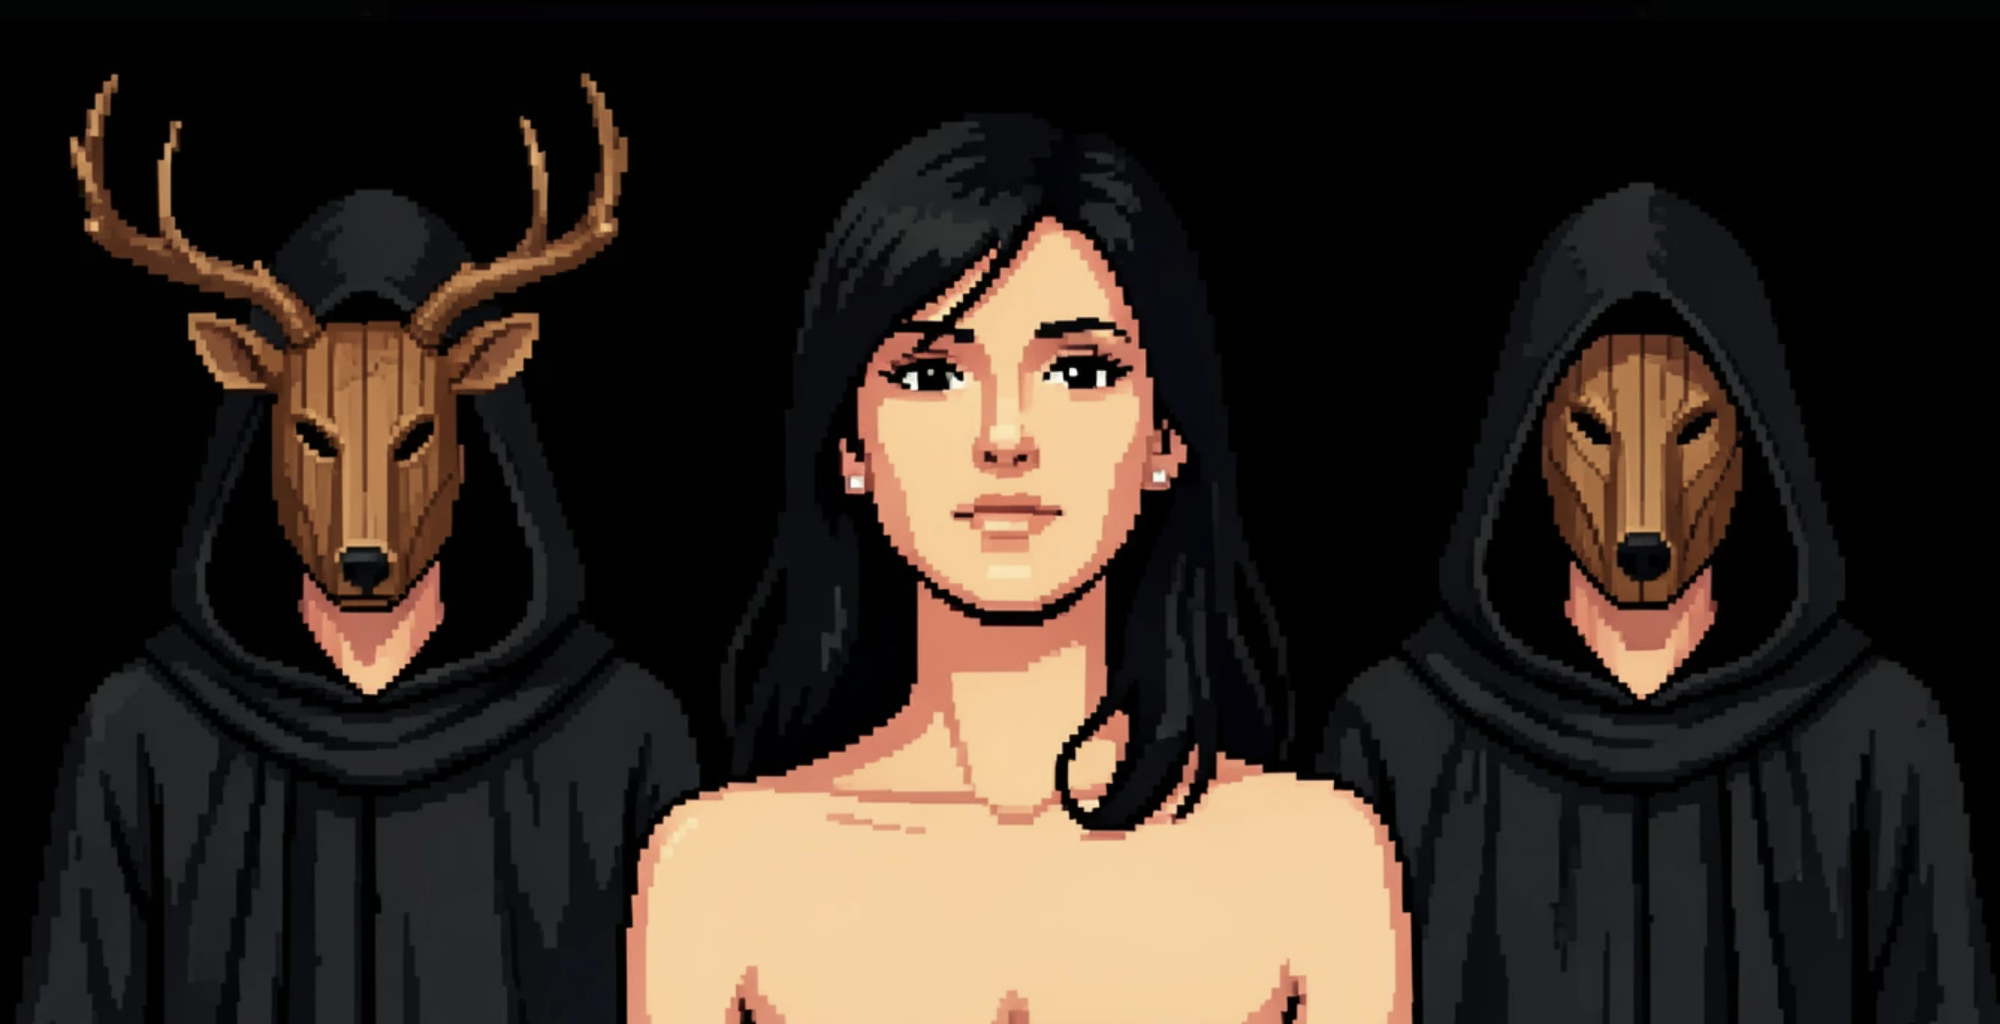
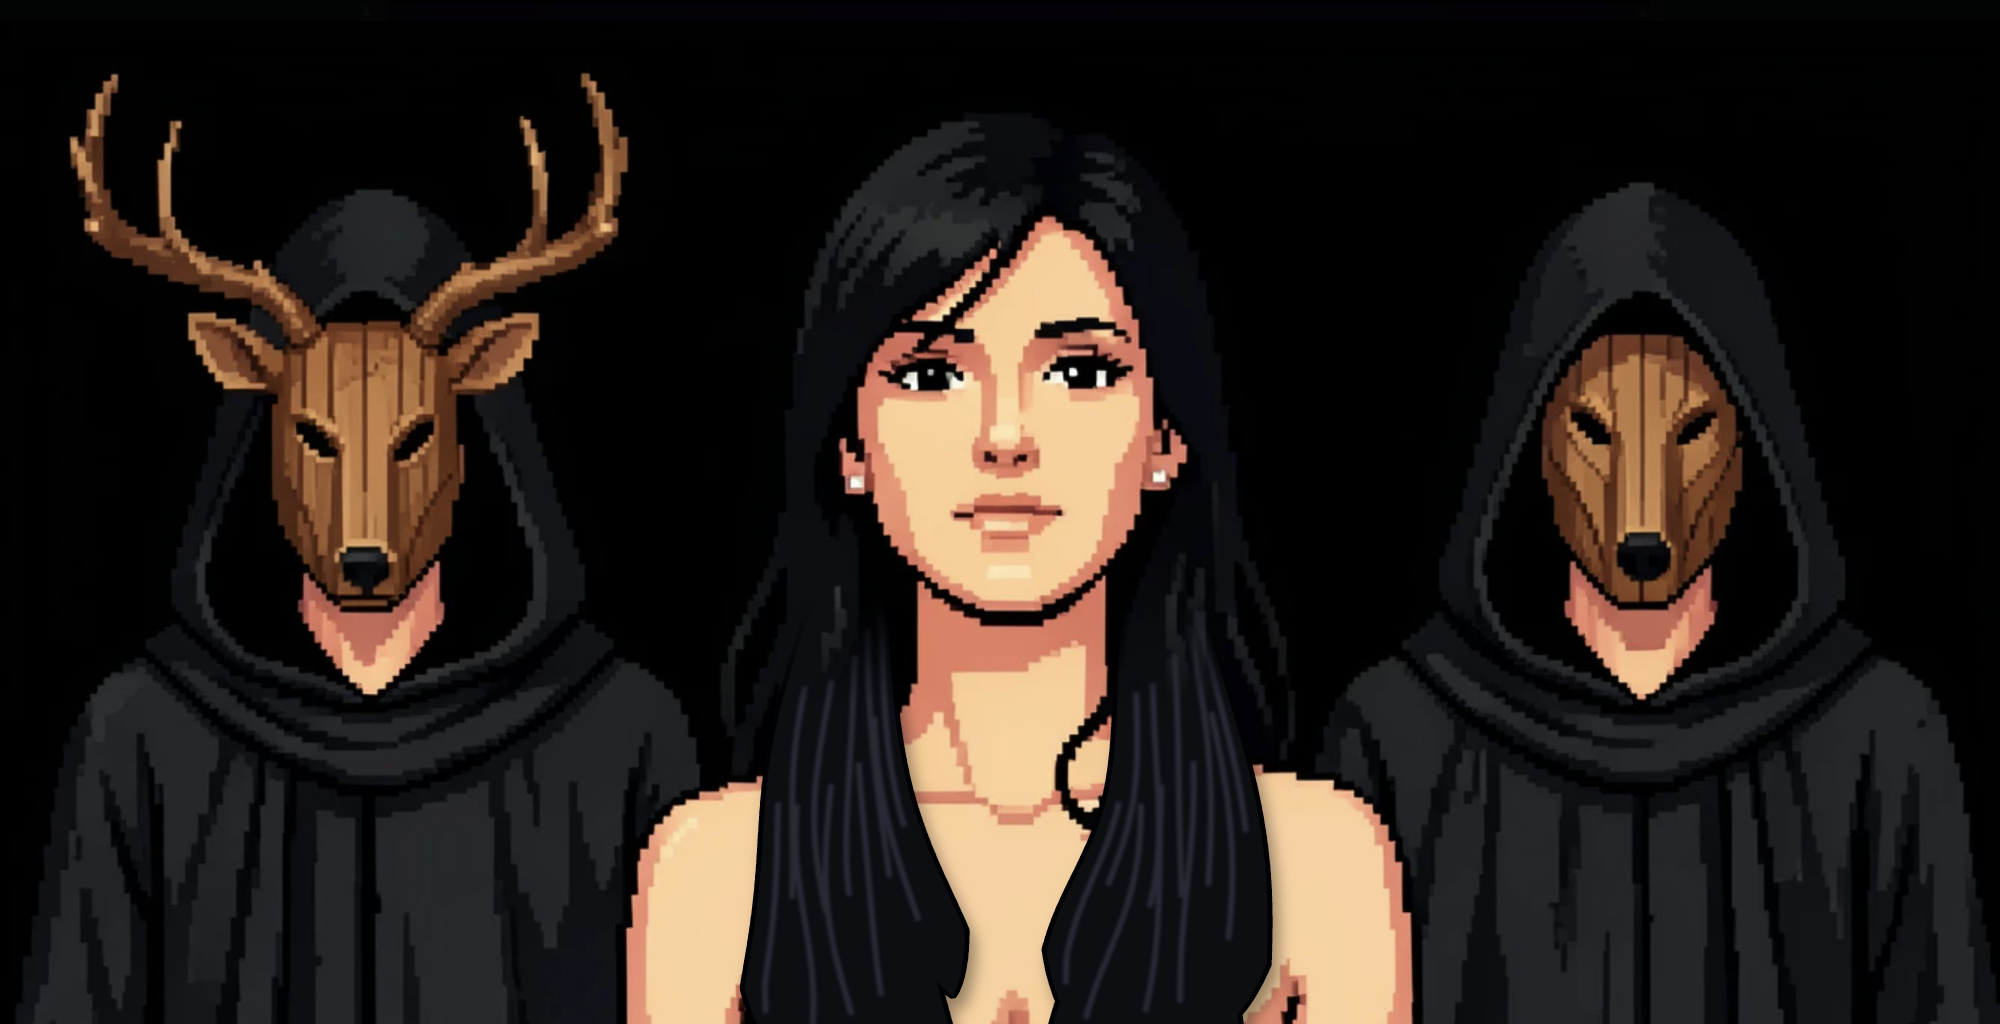
Cover Eleanor's breasts with hair in the stage close-up
Paints long front locks into the stage close-up source picture to match her Club sprite, and commits the clothed variant as its own source picture (the same velvet dress, with the hair over it) instead of painting the dress at build time.

Changed region(s): [[0.372, 0.6562, 0.651, 1.0]]

diff --git a/tools/art/closeup.py b/tools/art/closeup.py
@@ -3,8 +3,8 @@
 Each is built from an original generated picture committed under tools/art/src/ and reduced to a VGA close-up:
 chunky pixels, a tight palette and ordered dithering, inside a dark bevelled frame.
 
-- stage_closeup: Eleanor on the Club stage, the stag and the hooded mask behind her. The clothed variant paints a
-  dark velvet dress over her shoulders and chest; the picture is otherwise the same.
+- stage_closeup: Eleanor on the Club stage, the stag and the hooded mask behind her, long locks of hair falling over
+  her breasts. The clothed variant is its own picture: the same one in a dark velvet dress over her shoulders and chest.
 - rose_closeup: Rose calling Micah back from her door.
 - beaten_closeup: Micah flat on his back on the cathedral steps in Act 3, looking up from under his hat.
 - convent_closeup: outside the convent at the end of Act 1, Micah on the left and Eleanor on the right, two portraits
@@ -18,6 +18,7 @@ from PIL import Image, ImageDraw
 from .common import ROOT, hx, palette_of, pixelize, save
 
 SRC = os.path.join(ROOT, "tools", "art", "src", "stage_closeup.png")
+CLOTHED_SRC = os.path.join(ROOT, "tools", "art", "src", "stage_closeup_clothed.png")
 ROSE_SRC = os.path.join(ROOT, "tools", "art", "src", "rose_closeup.png")
 BEATEN_SRC = os.path.join(ROOT, "tools", "art", "src", "beaten_closeup.png")
 AW, AH = 220, 113  # art pixels, the picture's 1.95:1, so both masked men stay in view
@@ -33,56 +34,18 @@ MICAH_SRC = os.path.join(ROOT, "tools", "art", "src", "convent_micah.png")
 ELEANOR_SRC = os.path.join(ROOT, "tools", "art", "src", "convent_eleanor.png")
 MICAH_FACE_X, ELEANOR_FACE_X = 672, 665  # face centres in the 1344x768 sources
 
-# the neckline, in source pixels: a scoop between the shoulders, sleeves over the shoulder tops
-NECK_X, NECK_HALF = 1010, 290
-NECK_TOP, NECK_DIP = 805, 75
-DRESS = np.array(hx("4a0e16"), float)  # oxblood velvet
-DRESS_LIGHT = np.array(hx("a8323a"), float)
-TRIM = np.array(hx("c89a48"), float)  # a thin gold edge along the neckline
 
-
-def neckline(x):
-    """Top edge of the dress at source column x."""
-    u = np.clip((x - NECK_X) / NECK_HALF, -1, 1)
-    return NECK_TOP + NECK_DIP * (1 - u * u)
-
-
-def skin_mask(a):
-    r, g, b = a[..., 0], a[..., 1], a[..., 2]
-    return (r > 110) & (r > g) & (g > b) & (r - b > 35)
-
-
-def dress(img):
-    """Covers the skin below the neckline in velvet, shaded by the light that fell on her."""
-    a = np.array(img, float)
-    h, w = a.shape[:2]
-    yy, xx = np.mgrid[0:h, 0:w]
-    below = yy > neckline(xx)
-    m = skin_mask(a) & below
-    lum = a.mean(-1)
-    lit = np.clip((lum - 150) / 90, 0, 1)[..., None]
-    a[m] = (DRESS + (DRESS_LIGHT - DRESS) * lit ** 1.5)[m]
-    edge = m & ~(yy - 14 > neckline(xx))
-    a[edge] = TRIM * (0.75 + 0.35 * lit[edge])
-    return Image.fromarray(np.clip(a, 0, 255).astype("uint8"), "RGB")
-
-
-def shared_palette(src):
+def shared_palette(nude, clothed):
     """One palette for both variants, so they differ only where the dress is."""
-    nude = src.convert("RGB").resize((AW, AH), Image.BOX)
-    clothed = dress(src.convert("RGB")).resize((AW, AH), Image.BOX)
     both = Image.new("RGB", (AW, AH * 2))
-    both.paste(nude, (0, 0))
-    both.paste(clothed, (0, AH))
+    both.paste(nude.convert("RGB").resize((AW, AH), Image.BOX), (0, 0))
+    both.paste(clothed.convert("RGB").resize((AW, AH), Image.BOX), (0, AH))
     return palette_of(both, COLOURS)
 
 
-def stage_closeup(src, clothed, pal=None):
-    """Eleanor on the stage, framed."""
-    img = src.convert("RGB")
-    if clothed:
-        img = dress(img)
-    return framed(img, pal or shared_palette(src))
+def stage_closeup(src, pal):
+    """Eleanor on the stage, framed; src is the nude or the clothed picture, pal their shared palette."""
+    return framed(src.convert("RGB"), pal)
 
 
 def rose_crop(src):
@@ -191,10 +154,10 @@ def heraldry_closeup():
 
 
 def build():
-    src = Image.open(SRC)
-    pal = shared_palette(src)
-    save(stage_closeup(src, clothed=False, pal=pal), "ui", "stage_closeup.png")
-    save(stage_closeup(src, clothed=True, pal=pal), "ui", "stage_closeup_clothed.png")
+    nude, clothed = Image.open(SRC), Image.open(CLOTHED_SRC)
+    pal = shared_palette(nude, clothed)
+    save(stage_closeup(nude, pal), "ui", "stage_closeup.png")
+    save(stage_closeup(clothed, pal), "ui", "stage_closeup_clothed.png")
     save(rose_closeup(Image.open(ROSE_SRC)), "ui", "rose_closeup.png")
     save(beaten_closeup(Image.open(BEATEN_SRC)), "ui", "beaten_closeup.png")
     save(convent_closeup(Image.open(MICAH_SRC), Image.open(ELEANOR_SRC)), "ui", "convent_closeup.png")

diff --git a/tests/art/test_stage_closeup.py b/tests/art/test_stage_closeup.py
@@ -22,9 +22,10 @@ def inner(panel):
 class StageCloseupTests(unittest.TestCase):
     @classmethod
     def setUpClass(cls):
-        src = Image.open(closeup.SRC)
-        cls.nude = closeup.stage_closeup(src, clothed=False)
-        cls.clothed = closeup.stage_closeup(src, clothed=True)
+        nude, clothed = Image.open(closeup.SRC), Image.open(closeup.CLOTHED_SRC)
+        pal = closeup.shared_palette(nude, clothed)
+        cls.nude = closeup.stage_closeup(nude, pal)
+        cls.clothed = closeup.stage_closeup(clothed, pal)
 
     def test_committed_panels_match_the_build_and_fit_the_screen(self):
         # nearly the whole 480x270 screen, with the room still showing around it
@@ -64,8 +65,17 @@ class StageCloseupTests(unittest.TestCase):
         self.assertGreater(len(ys), 400)
         self.assertGreater(ys.min(), 78)  # below the collarbones
         self.assertTrue(64 < xs.min() and xs.max() < 160)  # not on the men
-        chest = c[101:, 92:128]
-        self.assertGreater(chest[..., 0].mean(), chest[..., 1].mean() * 2, "dark red velvet")
+        for x0, x1 in ((70, 80), (143, 153)):  # her sides, either side of the locks of hair
+            side = c[101:, x0:x1]
+            self.assertGreater(side[..., 0].mean(), side[..., 1].mean() * 2, "dark red velvet")
+
+    def test_her_hair_covers_her_breasts(self):
+        a = np.asarray(inner(self.nude), dtype=float)
+        c = np.asarray(inner(self.clothed), dtype=float)
+        for x0, x1 in ((84, 103), (117, 139)):  # one long lock over each breast, in both variants
+            with self.subTest(x=x0):
+                self.assertLess(a[95:, x0:x1].mean(), 40)
+                self.assertLess(c[95:, x0:x1].mean(), 40)
 
 
 class BeatenCloseupTests(unittest.TestCase):
